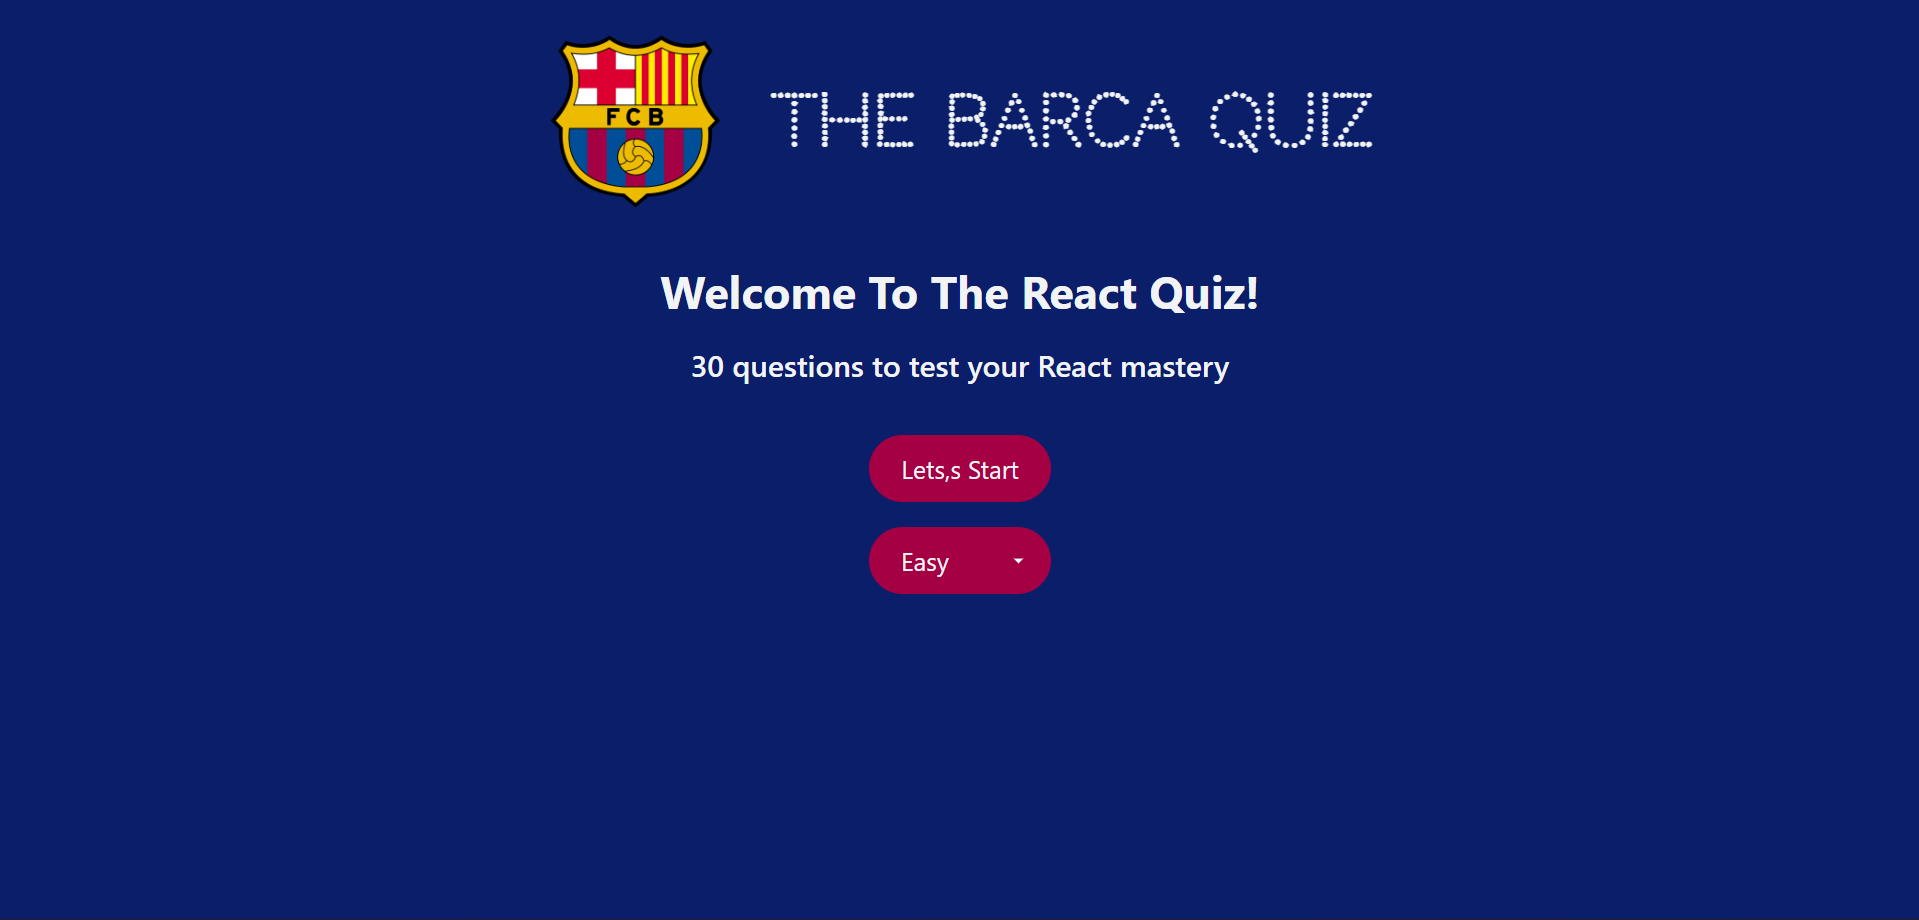
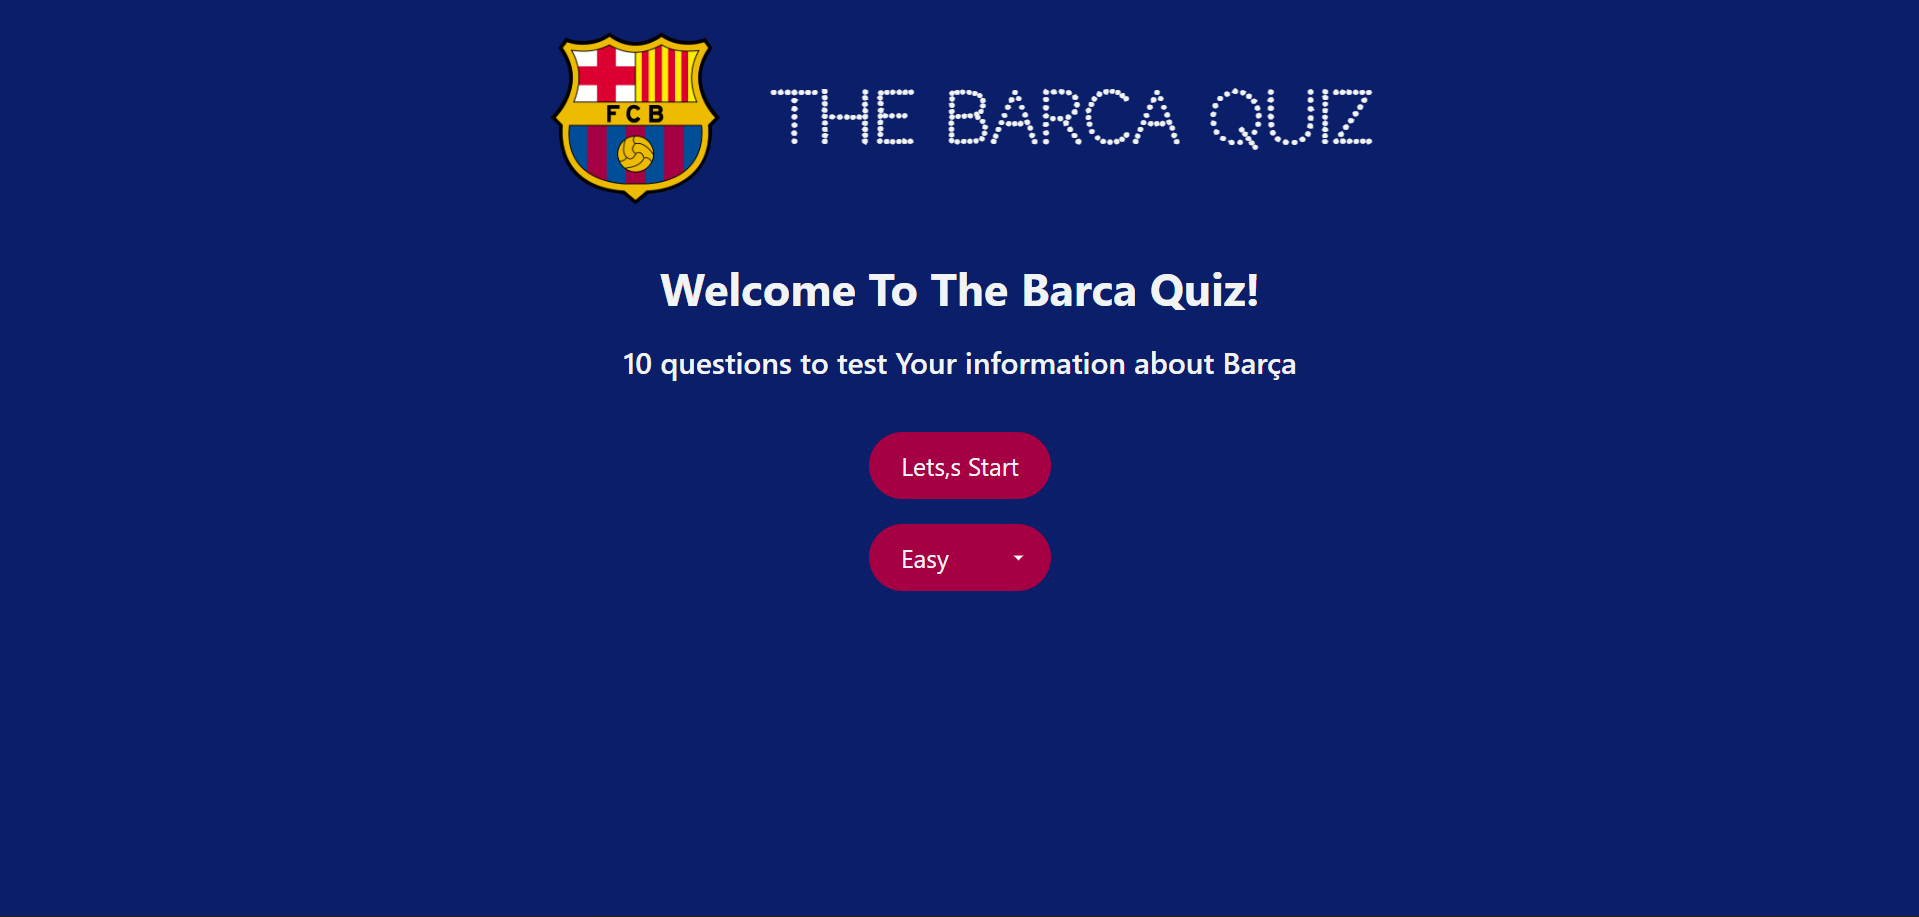
update

diff --git a/src/components/StartQuiz.jsx b/src/components/StartQuiz.jsx
@@ -6,8 +6,10 @@ const StartQuiz = () => {
   const { numOfQuestions, dispatch } = useQuestionsContext();
   return (
     <div className="start">
-      <h2>Welcome To The React Quiz!</h2>
-      <h3>{numOfQuestions} questions to test your React mastery</h3>
+      <h2>Welcome To The Barca Quiz!</h2>
+      <h3 style={{ width: "600px", textAlign: "center" }}>
+        {numOfQuestions / 3} questions to test Your information about Barça
+      </h3>
       <button
         className="btn btn-ui"
         onClick={() => dispatch({ type: "start", payload: level })}
